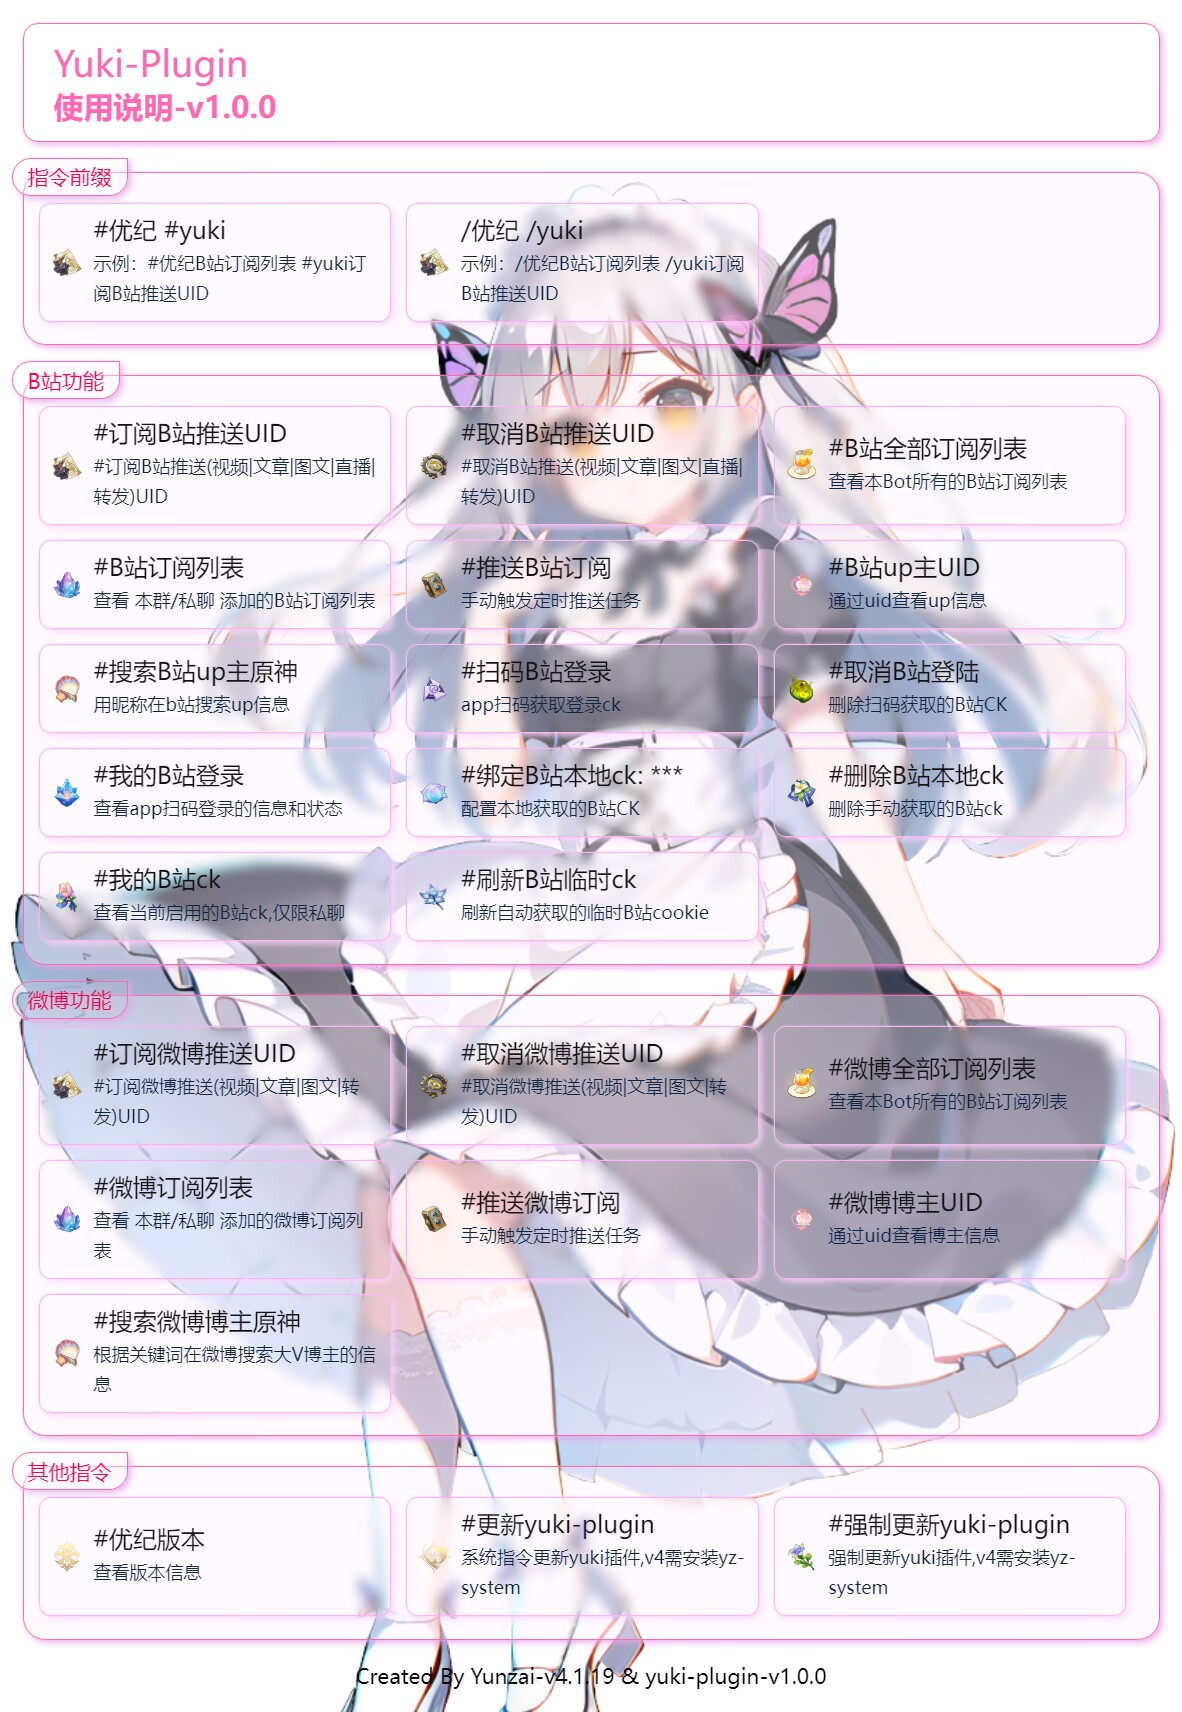
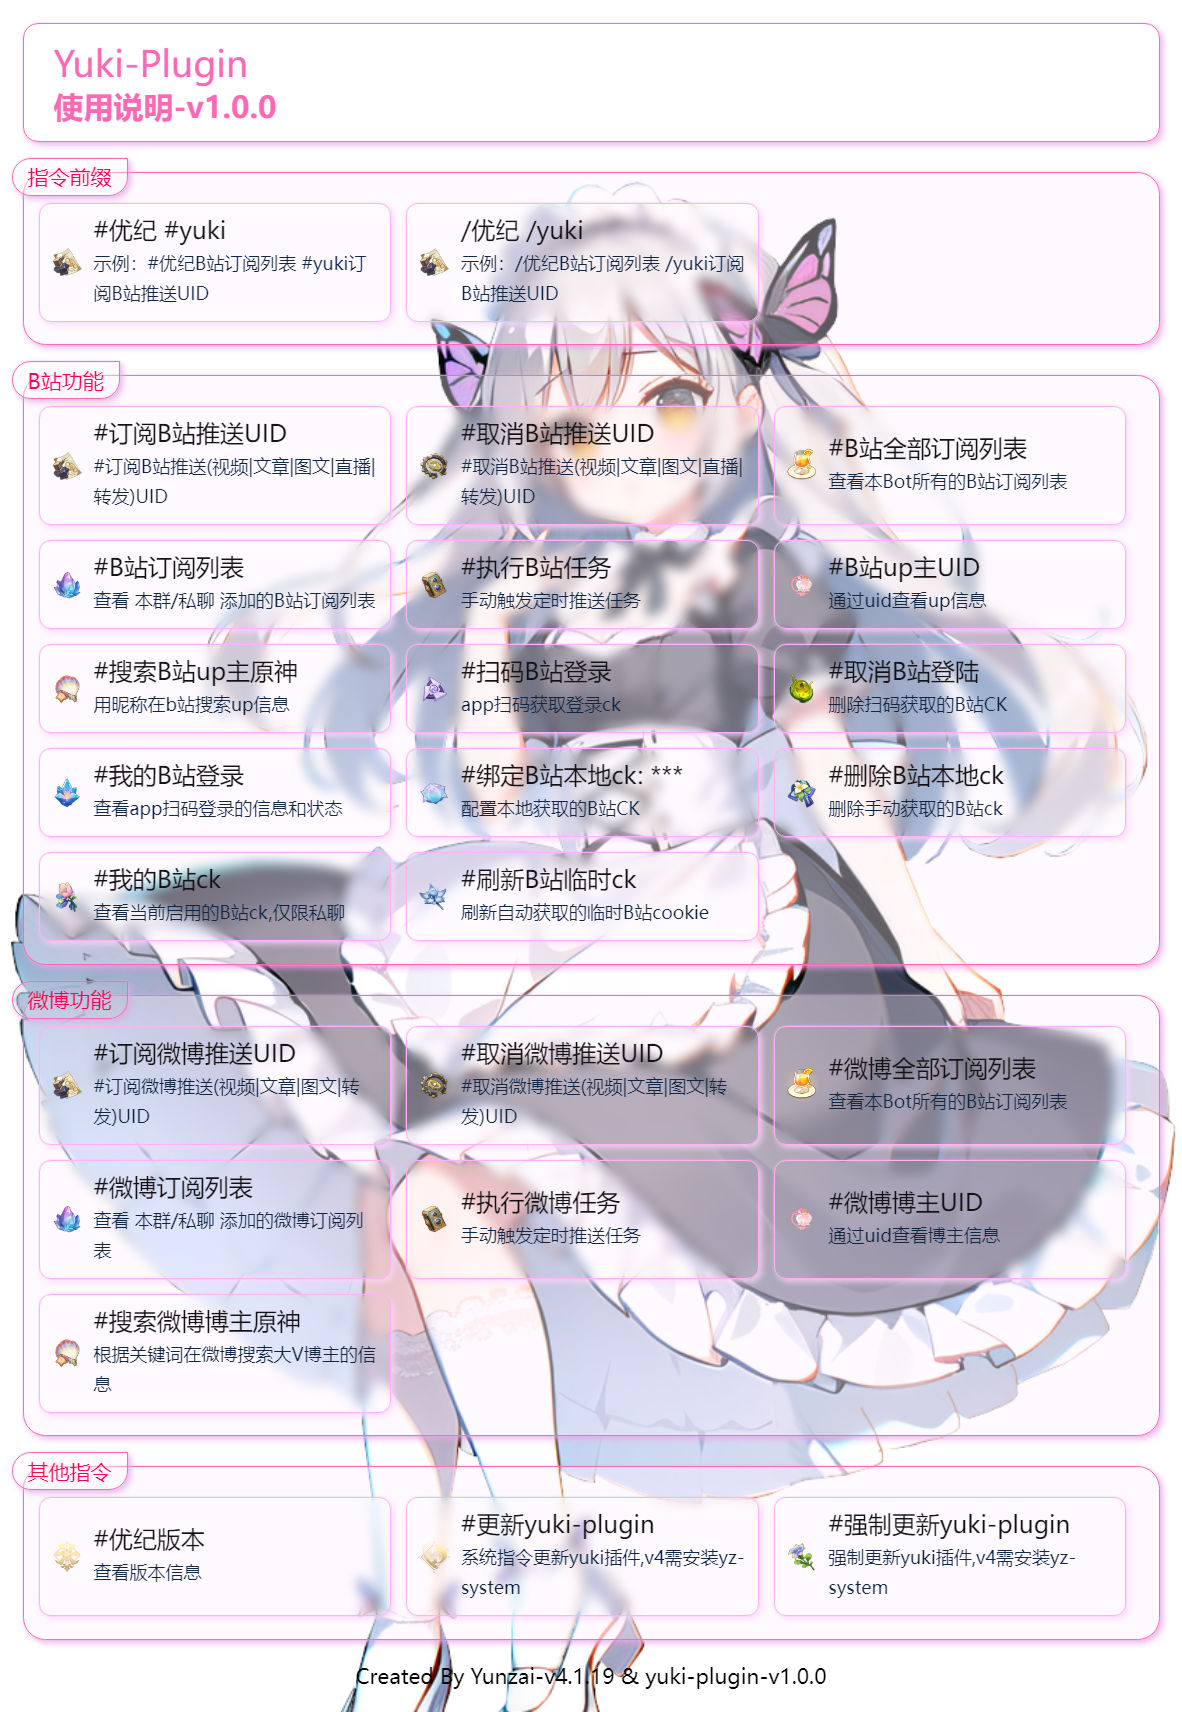
adjust message command

diff --git a/apps/bilibili.ts b/apps/bilibili.ts
@@ -27,16 +27,16 @@ export default class YukiBili extends Plugin {
     super();
     this.rule = [
       {
-        reg: "^(#|\/)(yuki|优纪)?推送(b站|B站|bili|bilibili|哔哩|哔哩哔哩)(动态|订阅|up|UP|up主|UP主)$",
+        reg: "^(#|\/)(yuki|优纪)?执行(b站|B站|bili|bilibili|哔哩|哔哩哔哩)任务$",
         fnc: this.newPushTask.name,
         permission: "master",
       },
       {
-        reg: "^(#|\/)(yuki|优纪)?(订阅|添加|add|ADD)(b站|B站|bili|bilibili|哔哩|哔哩哔哩)推送\\s*(视频\\s*|图文\\s*|文章\\s*|转发\\s*|直播\\s*)*.*$",
+        reg: "^(#|\/)(yuki|优纪)?(订阅|添加|add|ADD)(b站|B站|bili|bilibili|哔哩|哔哩哔哩)推送\s*(视频\s*|图文\s*|文章\s*|转发\s*|直播\s*)*.*$",
         fnc: this.addDynamicSub.name,
       },
       {
-        reg: "^(#|\/)(yuki|优纪)?(取消|删除|del|DEL)(b站|B站|bili|bilibili|哔哩|哔哩哔哩)推送\\s*(视频\\s*|图文\\s*|文章\\s*|转发\\s*|直播\\s*)*.*$",
+        reg: "^(#|\/)(yuki|优纪)?(取消|删除|del|DEL)(b站|B站|bili|bilibili|哔哩|哔哩哔哩)推送\s*(视频\s*|图文\s*|文章\s*|转发\s*|直播\s*)*.*$",
         fnc: this.delDynamicSub.name,
       },
       {

diff --git a/apps/weibo.ts b/apps/weibo.ts
@@ -12,16 +12,16 @@ export default class YukiWeibo extends Plugin {
     super();
     this.rule = [
       {
-        reg: "^(#|\/)(yuki|优纪)?推送(微博|weibo|WEIBO)(动态|订阅|博主)$",
+        reg: "^(#|\/)(yuki|优纪)?执行(微博|weibo|WEIBO)任务$",
         fnc: this.newPushTask.name,
         permission: "master",
       },
       {
-        reg: "^(#|\/)(yuki|优纪)?(订阅|添加|add|ADD)(微博|weibo|WEIBO)推送\\s*(视频\\s*|图文\\s*|文章\\s*|转发\\s*)*.*$",
+        reg: "^(#|\/)(yuki|优纪)?(订阅|添加|add|ADD)(微博|weibo|WEIBO)推送\s*(视频\s*|图文\s*|文章\s*|转发\s*)*.*$",
         fnc: this.addDynamicSub.name,
       },
       {
-        reg: "^(#|\/)(yuki|优纪)?(取消|删除|del|DEL)(微博|weibo|WEIBO)推送\\s*(视频\\s*|图文\\s*|文章\\s*|转发\\s*)*.*$",
+        reg: "^(#|\/)(yuki|优纪)?(取消|删除|del|DEL)(微博|weibo|WEIBO)推送\s*(视频\s*|图文\s*|文章\s*|转发\s*)*.*$",
         fnc: this.delDynamicSub.name,
       },
       {

diff --git a/README.md b/README.md
@@ -113,7 +113,7 @@ https://m.weibo.cn/u/7643376782 # 7643376782 为崩坏星穹铁道博主uid
 | 取消B站推送 | 删除对应up的B站对应类型的动态推送，权限：Master，可选分类：直播、视频、图文、文章，不加分类则默认全部 | `#取消B站推送uid` `#取消B站图文推送uid` |
 | 查看B站订阅列表 | 查看本Bot所有的B站订阅列表，权限：Bot的Master | `#B站全部订阅列表` |
 | 查看本群/私聊B站订阅列表 | 查看 本群/私聊 添加的B站订阅列表 | `#B站订阅列表` |
-| 手动推送B站订阅 | 手动触发定时推送任务，权限：Bot的Master | `#推送B站动态` |
+| 手动推送B站订阅 | 手动触发定时推送任务，权限：Bot的Master | `#执行B站任务` |
 | 查看up信息 | 通过uid查看up信息 | `#B站up主 uid` |
 | 搜索B站up主 | 根据昵称在b站搜索up信息 | `#搜索B站up主 xxx` |
 | 扫码B站登录 | app扫码获取登录ck | `#扫码B站登录` |
@@ -129,7 +129,7 @@ https://m.weibo.cn/u/7643376782 # 7643376782 为崩坏星穹铁道博主uid
 | 取消微博推送 | 删除对应博主的微博对应类型的动态推送，权限：Master，可选分类：视频、图文、文章，不加分类则默认全部 | `#取消微博推送uid` `#取消B站图文推送uid` |
 | 查看微博订阅列表 | 查看本Bot所有的B站订阅列表，权限：Bot的Master | `#微博全部订阅列表` |
 | 查看本群/私聊微博订阅列表 | 查看 本群/私聊 添加的微博订阅列表 | `#微博订阅列表` |
-| 手动推送微博订阅 | 手动触发定时推送任务，权限：Bot的Master | `#推送微博订阅` |
+| 手动推送微博订阅 | 手动触发定时推送任务，权限：Bot的Master | `#执行微博任务` |
 | 查看博主信息 | 通过uid查看博主信息 | `#微博博主 uid` |
 | 搜索微博博主 | 根据关键词在微博搜索大V博主的信息 | `#搜索微博博主 xxx` |
 ||||
